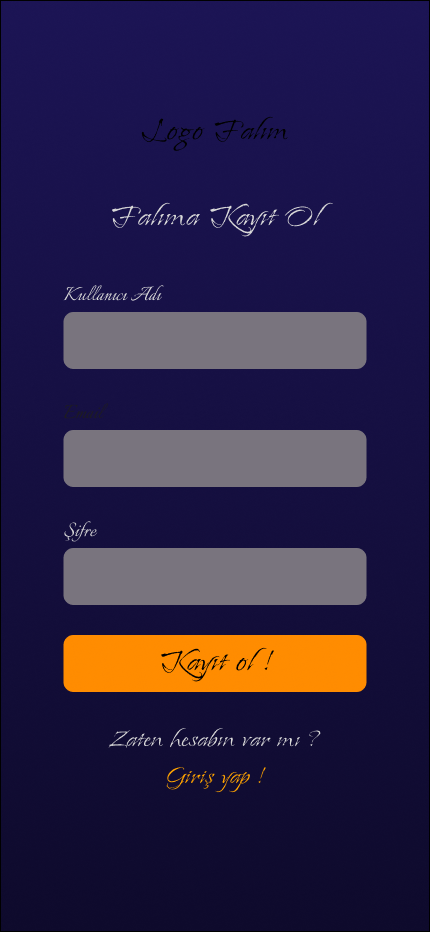
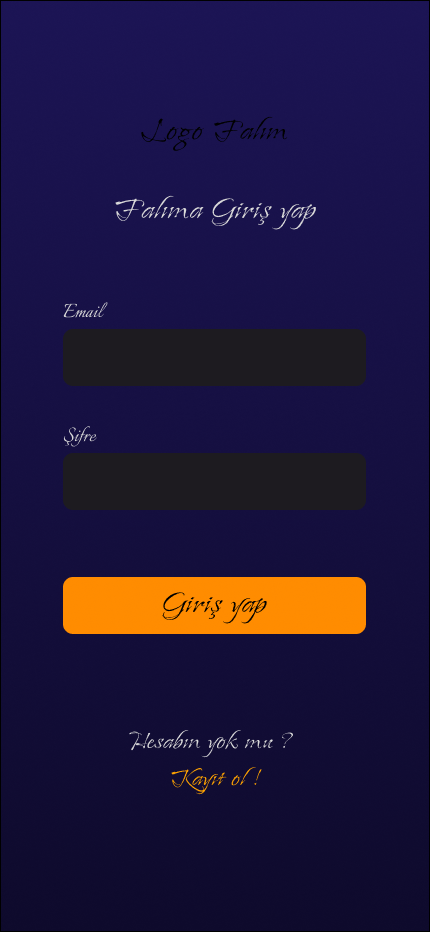
Auto commit 2025-01-14 22:22:02

diff --git a/app/Login.tsx b/app/Login.tsx
@@ -1,0 +1,80 @@
+import { View, Text, TextInput, TouchableOpacity } from 'react-native'
+import React, { useState } from 'react'
+import { router } from 'expo-router'
+import { LinearGradient } from 'expo-linear-gradient'
+
+const Login = () => {
+        const [email, setEmail] = useState('')
+        const [password, setPassword] = useState('')
+
+        return (
+                <LinearGradient
+                        colors={['#1B1455', '#0E0A2C']}
+                        style={{ flex: 1 }}
+                >
+                        <View className="flex-1 px-8 justify-center">
+                                <View className="space-y-22">
+                                        <View className="space-y-12">
+                                                <Text style={{ fontFamily: 'IslandMoments' }} className="text-white text-3xl text-center">
+                                                        Logo Falım
+                                                </Text>
+                                                <Text style={{ fontFamily: 'IslandMoments' }} className="text-white text-2xl text-center">
+                                                        Falıma Giriş yap
+                                                </Text>
+                                        </View>
+
+                                        <View className="space-y-18">
+                                                <View>
+                                                        <Text style={{ fontFamily: 'IslandMoments' }} className="text-white text-xl mb-4">
+                                                                Email
+                                                        </Text>
+                                                        <TextInput
+                                                                value={email}
+                                                                onChangeText={setEmail}
+                                                                className="bg-[#2d2d2d] text-white p-4 rounded-lg"
+                                                                placeholderTextColor="#666"
+                                                                placeholder="Email adresiniz"
+                                                        />
+                                                </View>
+
+                                                <View className="mt-8">
+                                                        <Text style={{ fontFamily: 'IslandMoments' }} className="text-white text-xl mb-4">
+                                                                Şifre
+                                                        </Text>
+                                                        <TextInput
+                                                                value={password}
+                                                                onChangeText={setPassword}
+                                                                className="bg-[#2d2d2d] text-white p-4 rounded-lg"
+                                                                placeholderTextColor="#666"
+                                                                placeholder="Şifreniz"
+                                                                secureTextEntry
+                                                        />
+                                                </View>
+                                        </View>
+
+                                        <TouchableOpacity
+                                                className="bg-[#ff8c00] py-4 rounded-lg mt-12"
+                                                onPress={() => router.push('/(tabs)/FalYukleme')}
+                                        >
+                                                <Text style={{ fontFamily: 'IslandMoments' }} className="text-white text-center text-xl">
+                                                        Giriş yap
+                                                </Text>
+                                        </TouchableOpacity>
+
+                                        <View className="flex-row justify-center items-center space-x-2 mt-8">
+                                                <Text style={{ fontFamily: 'IslandMoments' }} className="text-white text-lg">
+                                                        Hesabın yok mu?
+                                                </Text>
+                                                <TouchableOpacity  onPress={() => router.push('/SignUp')}>
+                                                        <Text style={{ fontFamily: 'IslandMoments' }} className="text-[#ff8c00] text-lg">
+                                                                Kayıt ol!
+                                                        </Text>
+                                                </TouchableOpacity>
+                                        </View>
+                                </View>
+                        </View>
+                </LinearGradient>
+        )
+}
+
+export default Login 

diff --git a/app/SignUp.tsx b/app/SignUp.tsx
@@ -1,0 +1,101 @@
+import { View, Text, TextInput, TouchableOpacity } from 'react-native'
+import React, { useState } from 'react'
+import { router } from 'expo-router'
+import { LinearGradient } from 'expo-linear-gradient'
+
+const SignUp = () => {
+  const [username, setUsername] = useState('')
+  const [email, setEmail] = useState('')
+  const [password, setPassword] = useState('')
+
+  return (
+    <LinearGradient
+      colors={['#1B1455', '#0E0A2C']}
+      style={{ flex: 1 }}
+    >
+      <View className="flex-1 px-8 justify-center">
+        <View className="space-y-12">
+          {/* Logo ve başlık */}
+          <View className="mb-16">
+            <Text style={{ fontFamily: 'IslandMoments' }} className="text-white text-3xl text-center">
+              Logo Falım
+            </Text>
+            <Text style={{ fontFamily: 'IslandMoments' }} className="text-white text-2xl text-center mt-4">
+              Falıma Kayıt Ol
+            </Text>
+          </View>
+
+          {/* Form alanları */}
+          <View>
+            <View className="mb-8">
+              <Text style={{ fontFamily: 'IslandMoments' }} className="text-white text-xl mb-4">
+                Kullanıcı Adı
+              </Text>
+              <TextInput
+                value={username}
+                onChangeText={setUsername}
+                className="bg-[#2d2d2d] text-white p-4 rounded-lg"
+                placeholderTextColor="#666"
+                placeholder="Kullanıcı adınız"
+              />
+            </View>
+
+            <View className="mb-8">
+              <Text style={{ fontFamily: 'IslandMoments' }} className="text-white text-xl mb-4">
+                Email
+              </Text>
+              <TextInput
+                value={email}
+                onChangeText={setEmail}
+                className="bg-[#2d2d2d] text-white p-4 rounded-lg"
+                placeholderTextColor="#666"
+                placeholder="Email adresiniz"
+                keyboardType="email-address"
+              />
+            </View>
+
+            <View className="mb-12">
+              <Text style={{ fontFamily: 'IslandMoments' }} className="text-white text-xl mb-4">
+                Şifre
+              </Text>
+              <TextInput
+                value={password}
+                onChangeText={setPassword}
+                className="bg-[#2d2d2d] text-white p-4 rounded-lg"
+                placeholderTextColor="#666"
+                placeholder="Şifreniz"
+                secureTextEntry
+              />
+            </View>
+          </View>
+
+          {/* Kayıt ol butonu */}
+          <View className="mt-8">
+            <TouchableOpacity 
+              className="bg-[#ff8c00] py-4 rounded-lg mb-8"
+              onPress={() => router.push('/Login')}
+            >
+              <Text style={{ fontFamily: 'IslandMoments' }} className="text-white text-center text-xl">
+                Kayıt ol!
+              </Text>
+            </TouchableOpacity>
+
+            {/* Giriş yap linki */}
+            <View className="flex-row justify-center items-center space-x-2">
+              <Text style={{ fontFamily: 'IslandMoments' }} className="text-white text-lg">
+                Zaten hesabın var mı?
+              </Text>
+              <TouchableOpacity onPress={() => router.push('/Login')}>
+                <Text style={{ fontFamily: 'IslandMoments' }} className="text-[#ff8c00] text-lg">
+                  Giriş yap!
+                </Text>
+              </TouchableOpacity>
+            </View>
+          </View>
+        </View>
+      </View>
+    </LinearGradient>
+  )
+}
+
+export default SignUp 

diff --git a/app/index.tsx b/app/index.tsx
@@ -17,7 +17,7 @@ const StartScreen = () => {
 
           <TouchableOpacity
             className="w-full bg-[#1e1b4b] py-4 rounded-full items-center"
-            onPress={() => router.push('/(tabs)/FalYukleme')}
+            onPress={() => router.push('/Login')}
           >
             <Text className="text-white text-xl font-['IslandMoments']">
               Devam Et

diff --git a/app/(tabs)/_layout.tsx b/app/(tabs)/_layout.tsx
@@ -33,6 +33,7 @@ export default function TabLayout() {
       <Tabs.Screen name='FalKonusu' options={{
         headerTitle: "Fal Konusu"
       }} />
+   
     </Tabs>
 
   );
